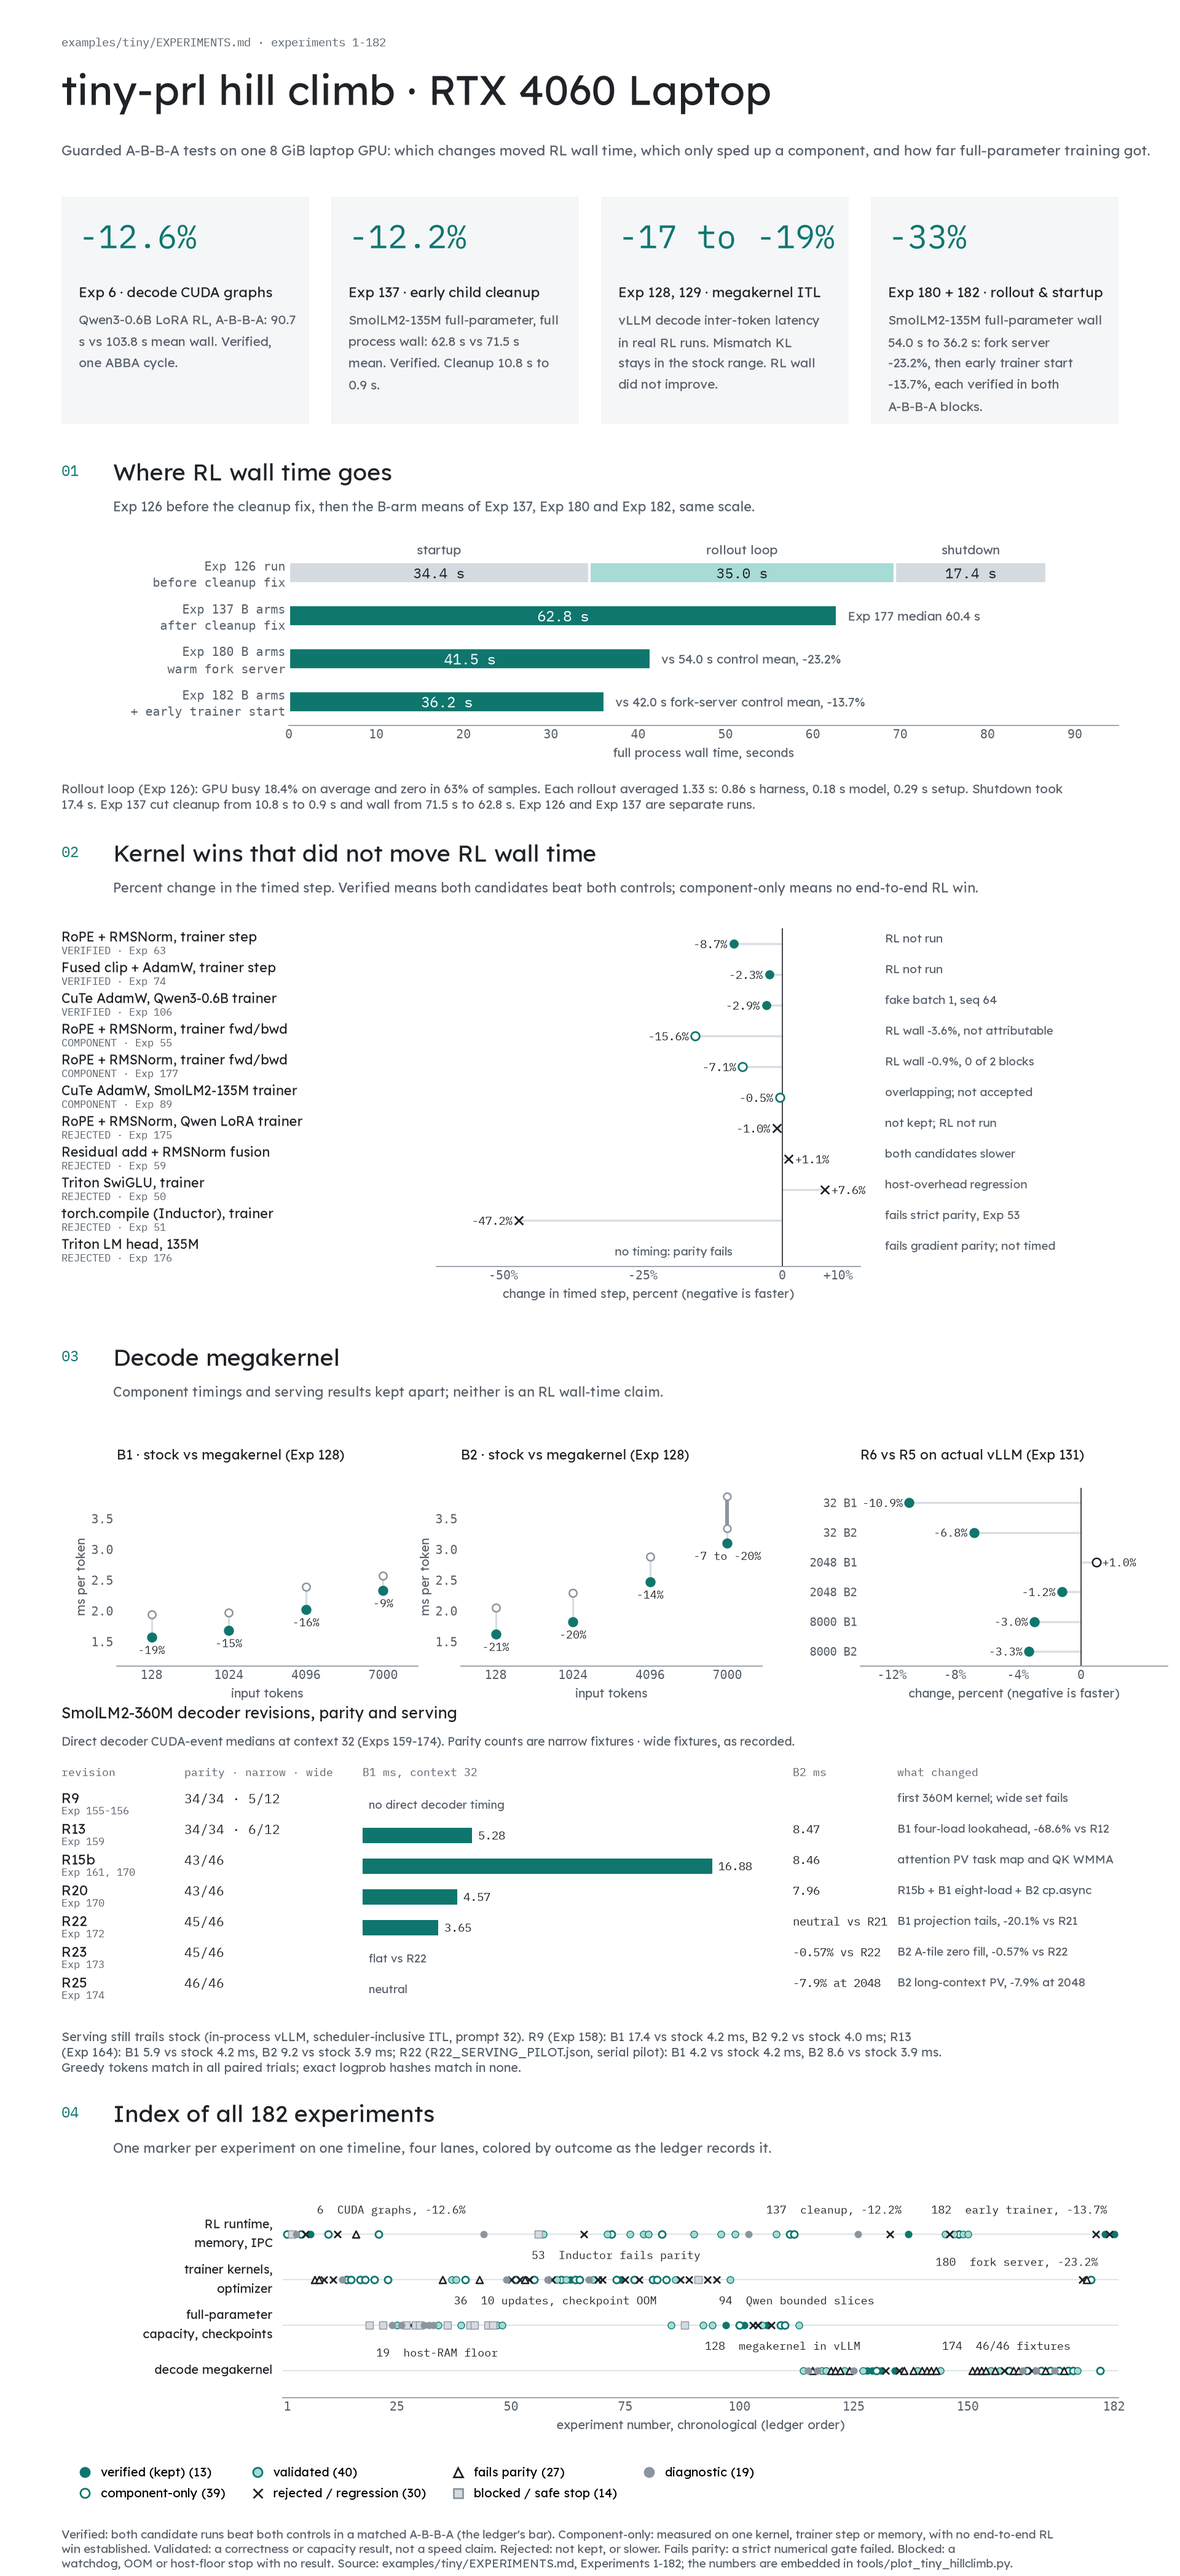
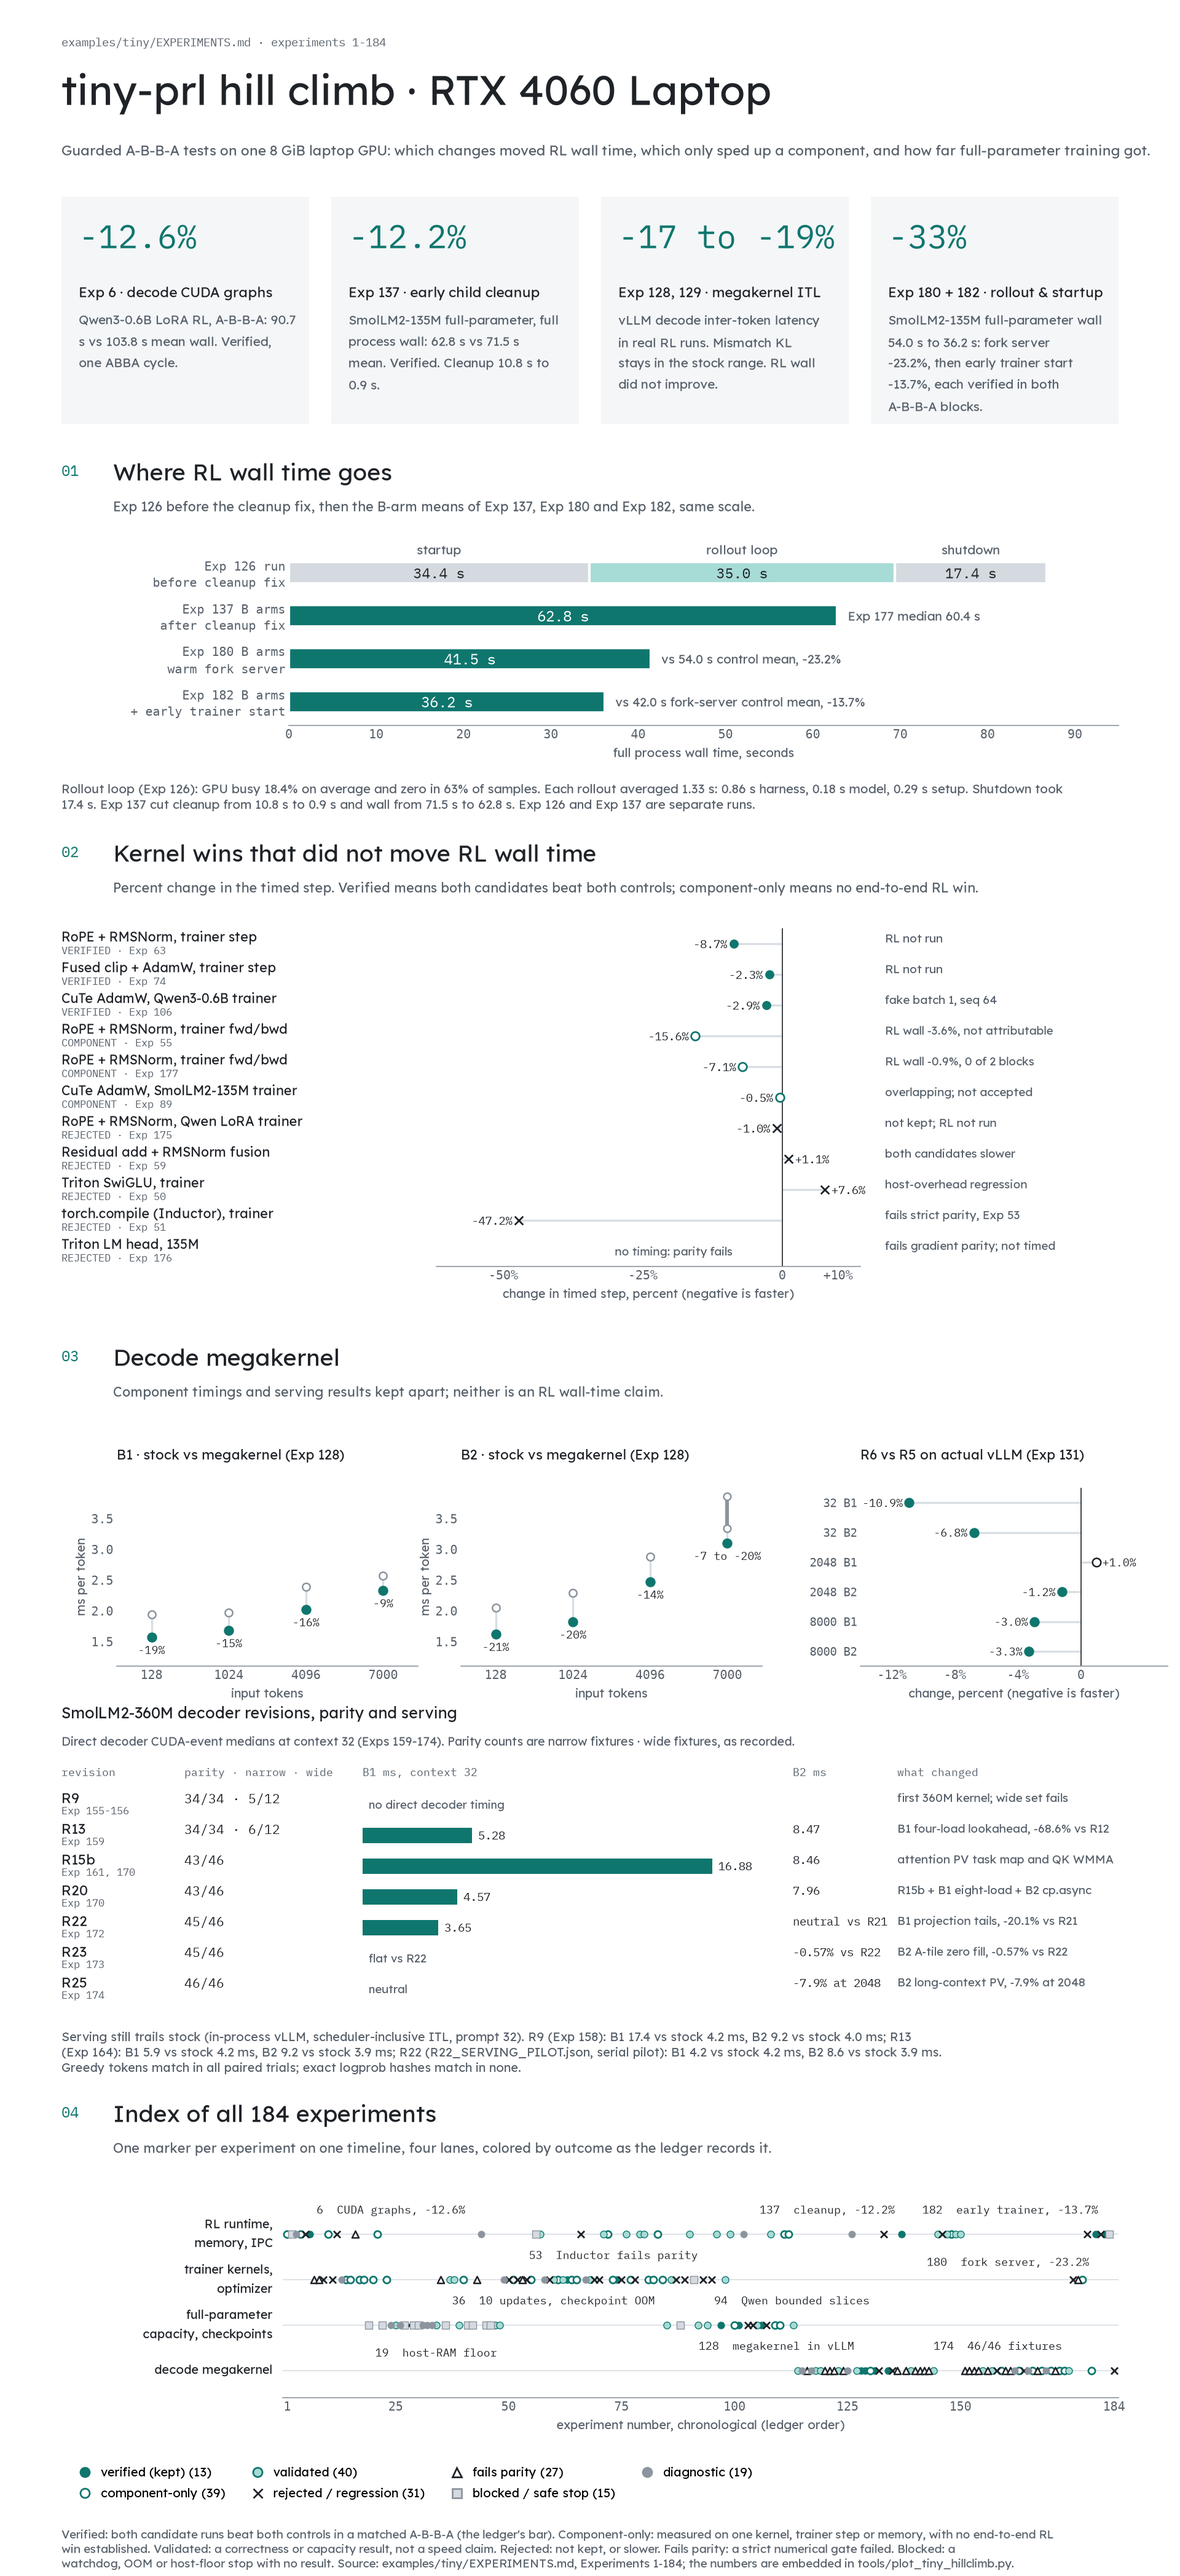
fix: keep the slower 360M decode kernel behind a research opt-in
The R25 360M kernel is slower than stock vLLM in serving (experiment
184), so the decode backend only routes 360M models to it when
PRIME_DECODE_MEGAKERNEL_360M=1. Bumps prime-kernels to R25, records the
blocked warm-inference item (experiment 183) and updates IDEAS status
and the hill-climb figure.

diff --git a/tools/plot_tiny_hillclimb.py b/tools/plot_tiny_hillclimb.py
@@ -1,7 +1,7 @@
 #!/usr/bin/env python3
 """Render the tiny-prl hill-climb poster (examples/tiny/hillclimb.png).
 
-Every number is embedded from examples/tiny/EXPERIMENTS.md (Experiments 1-182);
+Every number is embedded from examples/tiny/EXPERIMENTS.md (Experiments 1-184);
 the script reads no other file. The first positional argument is accepted for
 CLI compatibility and is not used.
 
@@ -107,7 +107,7 @@ SERVING = {
     "R22 (R22_SERVING_PILOT.json, serial pilot)": ((4.20, 3.93), (4.24, 8.58)),
 }
 
-# Experiment index. Outcome codes and lanes for all 182 experiments.
+# Experiment index. Outcome codes and lanes for all 184 experiments.
 OUTCOMES = {
     "V": "verified (kept)",
     "C": "component-only",
@@ -204,6 +204,7 @@ CODES = {
     ],
     "X": [
         181,
+        184,
         5,
         9,
         11,
@@ -263,7 +264,7 @@ CODES = {
         171,
         176,
     ],
-    "B": [2, 19, 22, 27, 29, 30, 36, 41, 42, 45, 46, 56, 88, 91],
+    "B": [183, 2, 19, 22, 27, 29, 30, 36, 41, 42, 45, 46, 56, 88, 91],
     "D": [3, 13, 24, 26, 31, 32, 33, 44, 49, 58, 67, 102, 115, 117, 125, 126, 162, 165, 169],
 }
 LANES = [
@@ -311,6 +312,7 @@ LANES = [
             180,
             181,
             182,
+            183,
         ],
     ),
     (
@@ -471,6 +473,7 @@ LANES = [
             173,
             174,
             179,
+            184,
         ],
     ),
 ]
@@ -513,8 +516,8 @@ def register_fonts() -> tuple[str, str]:
 def check_index() -> None:
     codes_of = {e: code for code, exps in CODES.items() for e in exps}
     lanes_of = {e: key for key, _, exps in LANES for e in exps}
-    assert sorted(codes_of) == list(range(1, 183)), "every experiment needs exactly one outcome"
-    assert sorted(lanes_of) == list(range(1, 183)), "every experiment needs exactly one lane"
+    assert sorted(codes_of) == list(range(1, 185)), "every experiment needs exactly one outcome"
+    assert sorted(lanes_of) == list(range(1, 185)), "every experiment needs exactly one lane"
 
 
 class Page:
@@ -845,7 +848,7 @@ def draw_timeline(pg, top):
     height = 1.55
     lane_row = {key: 3 - idx for idx, (key, _, _) in enumerate(LANES)}
     ax = pg.axes(2.3, top, PAGE_W - GUTTER - 2.3, height)
-    ax.set_xlim(0, 183)
+    ax.set_xlim(0, 185)
     ax.set_ylim(-0.6, 3.6)
     for key, label, _ in LANES:
         ax.axhline(lane_row[key], color=RULE, linewidth=0.6, zorder=0)
@@ -877,7 +880,7 @@ def draw_timeline(pg, top):
             va="center",
         )
     ax.set_yticks([])
-    ax.set_xticks([1, 25, 50, 75, 100, 125, 150, 182])
+    ax.set_xticks([1, 25, 50, 75, 100, 125, 150, 184])
     ax.set_xlabel(
         "experiment number, chronological (ledger order)", fontsize=7.1, color=SUB, fontfamily=pg.prose, labelpad=2
     )
@@ -935,7 +938,7 @@ def draw_footer(pg, y):
             "measured on one kernel, trainer step or memory, with no end-to-end RL win established. Validated: a "
             "correctness or capacity result, not a speed claim. Rejected: not kept, or slower. Fails parity: a strict "
             "numerical gate failed. Blocked: a watchdog, OOM or host-floor stop with no result. Source: "
-            "examples/tiny/EXPERIMENTS.md, Experiments 1-182; the numbers are embedded in "
+            "examples/tiny/EXPERIMENTS.md, Experiments 1-184; the numbers are embedded in "
             "tools/plot_tiny_hillclimb.py.",
             175,
         ),
@@ -948,7 +951,7 @@ def build(output: Path, prose: str, mono: str) -> None:
     fig = plt.figure(figsize=(PAGE_W, PAGE_H), dpi=DPI, facecolor="white")
     pg = Page(fig, prose, mono)
 
-    pg.text(GUTTER, 0.28, "examples/tiny/EXPERIMENTS.md · experiments 1-182", size=6.8, color=SUB, mono=True)
+    pg.text(GUTTER, 0.28, "examples/tiny/EXPERIMENTS.md · experiments 1-184", size=6.8, color=SUB, mono=True)
     pg.text(GUTTER, 0.52, "tiny-prl hill climb · RTX 4060 Laptop", size=24, color=INK, weight="normal")
     pg.text(
         GUTTER,
@@ -1026,7 +1029,7 @@ def build(output: Path, prose: str, mono: str) -> None:
     pg.section(
         17.1,
         "04",
-        "Index of all 182 experiments",
+        "Index of all 184 experiments",
         "One marker per experiment on one timeline, four lanes, colored by outcome as the ledger records it.",
     )
     draw_timeline(pg, 17.95)

diff --git a/src/prime_rl/inference/vllm/decode_backend.py b/src/prime_rl/inference/vllm/decode_backend.py
@@ -19,6 +19,7 @@ from vllm.model_executor.models.llama import LlamaModel
 logger = init_logger("vllm.prime_rl.decode_backend")
 
 REFERENCE_ENV = "PRIME_DECODE_REFERENCE"
+ENABLE_360M_ENV = "PRIME_DECODE_MEGAKERNEL_360M"
 KERNEL_NAME_135M = "decode_megakernel"
 KERNEL_NAME_360M = "decode_megakernel_360m"
 KERNEL_NAME = KERNEL_NAME_135M
@@ -57,9 +58,13 @@ def _resolve_decode_steps():
         return {KERNEL_NAME_135M: reference}
     import prime_kernels
 
+    names = [KERNEL_NAME_135M]
+    # The 360M kernel is slower than stock vLLM in serving, so it stays a research opt-in.
+    if os.environ.get(ENABLE_360M_ENV) == "1":
+        names.append(KERNEL_NAME_360M)
     return {
         name: prime_kernels.load(name).decode_step
-        for name in (KERNEL_NAME_135M, KERNEL_NAME_360M)
+        for name in names
         if name in prime_kernels.KERNELS and prime_kernels.is_available(name)
     }
 

diff --git a/examples/tiny/EXPERIMENTS.md b/examples/tiny/EXPERIMENTS.md
@@ -1556,3 +1556,22 @@ Two guarded A-B-B-A blocks repeated the Experiment 133 comparison of `orchestrat
 On a shared GPU, the launcher started the trainer only after vLLM's liveness endpoint returned 200, so vLLM's memory profiling saw no trainer allocation. A fork-server run's timeline showed vLLM live 15 s after launch, followed by 7 s of trainer imports before its first log line and 1 s of initialization before the orchestrator loop began. The new opt-in `deployment.early_trainer_start` starts the trainer process at launch with the liveness URL in its environment. The trainer waits for that endpoint after parsing its config and before `train()`, which is where CUDA is first initialized. A CPU-only check confirmed that importing the trainer and parsing its config leave CUDA uninitialized.
 
 Two guarded A-B-B-A blocks used the fork-server profile, with B adding `early_trainer_start = true`. Full wall was 42.1, 34.7, 35.9, 42.3 s in block one and 41.9, 36.5, 37.7, 41.5 s in block two (A1, B1, B2, A2 / A3, B3, B4, A4). Both candidates beat both controls in both blocks. Mean wall fell from 41.96 to 36.19 s (−13.7%), and loop time was unchanged (13.45 → 13.65 s). A 500 ms `nvidia-smi` sample showed at most one GPU compute process, the inference engine, before vLLM reported its server start in every run. Rollout attempts (116–120) and mismatch KL (0.0012–0.0018) matched across arms. The SmolLM2 profile now enables the flag; together with Experiment 180, the ten-update run went from 54.0 s to about 36 s. All guards returned 0. Evidence: `outputs/rollout-overhead-20261025/early-trainer-r1/cuda_check.py` and `outputs/rollout-overhead-20261025/early-trainer-abba-r1/{A1..A4,B1..B4}.toml,*-gpuapps.log,guard-*/result.json,output/`.
+
+## Experiment 183: reusing a warm vLLM server across runs is blocked by the shared-GPU contracts
+
+IDEAS.md item A3 proposed keeping one vLLM server alive across consecutive RL runs, so short experiments skip its ~15 s startup. Each run already re-broadcasts the trainer's starting weights (v0), so a warm server's weights would be reset exactly. A run config without `[inference]`, pointed at an external server, fails validation before launch: `cuda_ipc requires an inference configuration`. Three validators reject the combination: CUDA IPC weight broadcast, `share_train_infer_gpu` and `early_trainer_start` each require a launcher-managed inference configuration (`packages/prime-rl-configs/src/prime_rl/configs/rl.py`). Relaxing them would remove the guarantees that the trainer and inference share one GPU in a known startup order. The saving would also apply only to repeated short experiments, not to long training runs where startup is amortised, so the item is not pursued and the validators are unchanged. No GPU work ran. Evidence: `outputs/rollout-overhead-20261025/warm-inference-r1/{README.md,B1-noinf.toml}`.
+
+## Experiment 184: the R25 360M decode kernel is slower than stock vLLM in serving
+
+The experimental `decode_megakernel_360m` package was switched from the archived R9 source to R25 (`prime-kernels` `99eff5a`), which passes all 46 validation fixtures (Experiment 174). In an in-process vLLM serving A-B-B-A (SmolLM2-360M, FULL_DECODE_ONLY graphs, prompts 32/128/1024, batch 1/2, 64 greedy tokens, 3 warmups and 7 repeats), the first attempt hung when the laptop suspended and was rerun cleanly. Each candidate worker asserted the R25 source hash and the route to the 360M kernel.
+
+| Prompt/batch | Stock ITL (A1/A2) | R25 ITL (B1/B2) | Change |
+|---|---:|---:|---:|
+| 32/1 | 4.292 / 4.300 ms | 4.365 / 4.365 ms | +1.6% |
+| 32/2 | 3.992 / 3.997 ms | 8.775 / 8.775 ms | +119.6% |
+| 128/1 | 4.304 / 4.309 ms | 4.604 / 4.606 ms | +6.9% |
+| 128/2 | 4.003 / 4.004 ms | 8.987 / 8.990 ms | +124.5% |
+| 1024/1 | 4.501 / 4.510 ms | 6.912 / 6.915 ms | +53.4% |
+| 1024/2 | 4.404 / 4.412 ms | 11.140 / 11.139 ms | +152.6% |
+
+Stock arms agreed with each other bitwise, as did R25 arms; R25 against stock matched 61–86% of greedy tokens, with generated-token logprob differences up to 0.66. Every arm ran at a 2610 MHz median SM clock. The direct decoder gains in Experiments 159–179 do not carry into serving. The opt-in decode backend therefore no longer routes 360M models to this kernel unless `PRIME_DECODE_MEGAKERNEL_360M=1` is set for research; SmolLM2-135M routing is unchanged. Evidence: `outputs/megakernel-20261025/r25-serving-abba-r1/{bench_serving_r25.py,run_abba.sh,analyze.py,README.md,results.json,attempt1-interrupted/}`.

diff --git a/examples/tiny/IDEAS.md b/examples/tiny/IDEAS.md
@@ -4,6 +4,17 @@ This list ranks ideas from public RL systems and kernel work against what this
 laptop actually spends time on. Every expected gain is an estimate until a
 matched A-B-B-A measures it; experiment numbers refer to `EXPERIMENTS.md`.
 
+## Status
+
+| Item | Outcome | Ledger |
+|---|---|---|
+| A1 persistent harness worker (warm fork server) | Verified: RL wall −23.2%, enabled in the SmolLM2 profile | Exp 180 |
+| A5 more rollouts in flight (after A1) | No gain (wall 0.0%); `max_inflight` stays 4 | Exp 181 |
+| A4 overlap trainer init with vLLM startup | Verified: RL wall −13.7%, enabled in the SmolLM2 profile | Exp 182 |
+| A3 warm vLLM across runs | Blocked by the shared-GPU / CUDA IPC config contracts; not pursued | Exp 183 |
+| A2 skip zero-signal prompts | Waiting for approval (changes the training data) | — |
+| B3 360M megakernel in serving | R25 slower than stock in serving; 360M routing is now research-only | Exp 184 |
+
 ## What the measurements say
 
 A ten-update SmolLM2-135M full-parameter RL run takes about 60 s after the
